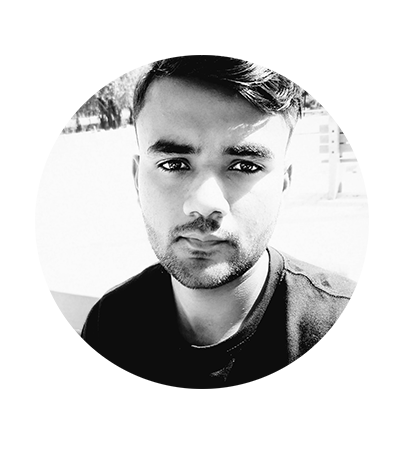
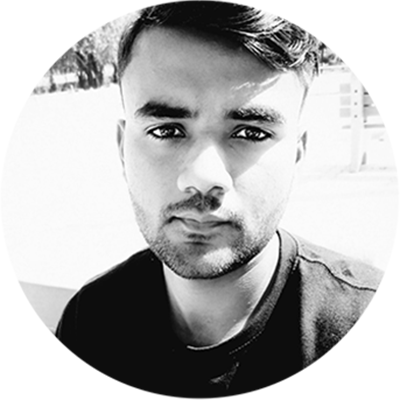
updated

diff --git a/src/Home.js b/src/Home.js
@@ -1,22 +1,28 @@
-import React from 'react';
+import React from "react";
+import Profile from "./img/Pro.png";
 
 const Home = () => {
-    return (
-        <>
+  return (
+    <>
+      <section className="home-section section">
         <div className="container">
-        <div className="home d-flex justify-content-between p-5">
-         <div className="intro">
-          <h5>Hello</h5>
-          <h2>I'm Sukhvant Singh</h2>
-          <h5>Web Designer & Developer</h5>
-         </div>
-         <div className="profile">
-          <h1>Pic</h1>
-         </div>
-        </div>
-        </div>
-        </>
-    );
-}
+          <div className="home align-item-center">
+            <div className="intro">
+              <p>Hello</p>
+              <h2>I'm Sukhvant Singh</h2>
+              <h1>Web Designer & Developer</h1>
+            </div>
+
+            <div className="profile">
+              <div className="img-box inner-shadow">
+                  <img src={Profile} alt="ssukhvant" className="outer-shadow"/>
+              </div>
+            </div>
+          </div>
+          </div>
+      </section>
+    </>
+  );
+};
 
 export default Home;

diff --git a/src/index.css b/src/index.css
@@ -40,6 +40,10 @@ code {
   box-sizing: border-box;
 }
 
+.align-item-center{
+  align-items: center !important;
+}
+
 a{
   text-decoration: none;
 }
@@ -189,10 +193,52 @@ img{
 /**********HOME*********/
 
 .home{
-  height: 45rem;
+  display: flex;
+  flex-wrap: wrap;
+}
+
+.home-section{
+  padding: 3rem 0;
+  min-height: 100vh;
   background-color: white;
 }
 
-.home .intro{
-  margin-top: 8rem;
+.home-section .intro,
+.home-section .profile{
+  flex: 0 0 50%;
+  max-width: 50%;
+  padding: 0 1rem;
+}
+
+.home-section .intro p{
+  color: grey;
+  font-size: 18px;
+  margin: 0;
+}
+
+.home-section .intro h2{
+  font-size: 55px;
+  font-weight: 700;
+  color: rgba(0, 0, 0, 0.884);
+  margin: 0;
+}
+
+.home-section .intro h1{
+  font-size: 20px;
+  font-weight: 500;
+  color: rgba(0, 0, 0, 0.7);
+}
+
+.home-section .profile .img-box{
+  max-width: 450px;
+  padding: 0.95rem;
+  display: block;
+  margin: auto;
+  border-radius: 100%;
+}
+
+.home-section .profile .img-box img{
+  width: 100%;
+  border-radius: 50%;
+  border: 10px solid transparent;
 }
